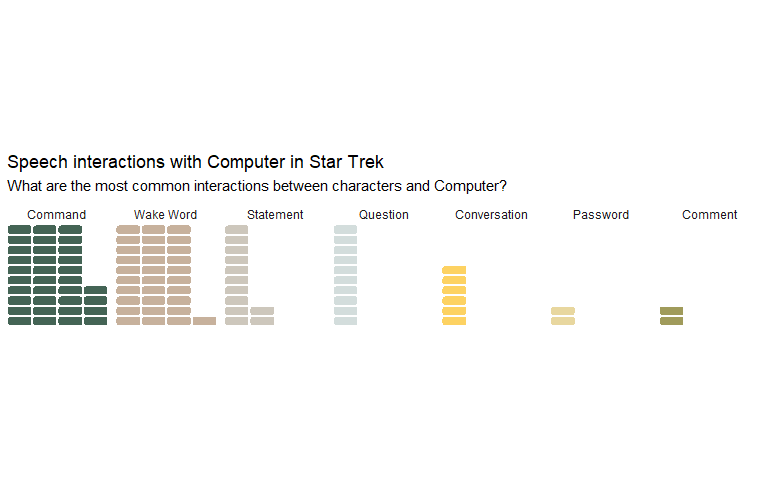
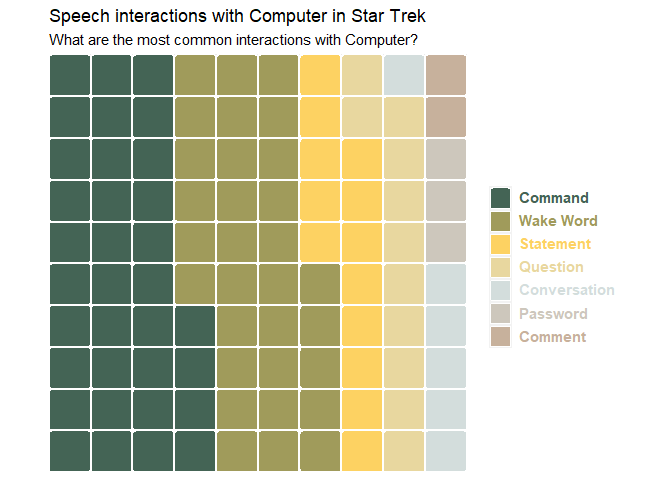
Colour-code legend text

diff --git a/2021/2021_08_17/README.md b/2021/2021_08_17/README.md
@@ -7,6 +7,7 @@ extrafont::loadfonts(device="win")
 library(tidyverse)
 library(waffle)
 library(wesanderson)
+library(ggtext)
 
 raw_df <- readr::read_csv('https://raw.githubusercontent.com/rfordatascience/tidytuesday/master/data/2021/2021-08-17/computer.csv')
 ```
@@ -26,9 +27,20 @@ raw_df %>%
   arrange(desc(percent))
 
 pal <- wes_palette("Chevalier1", 7, type = "continuous")
+```
 
+``` r
+test <-
 waffle_data %>%
-  ggplot(aes(fill = type, values = percent)) +
+  mutate(
+    row_number = row_number(),
+    colour = glue::glue("<span style = \"color:{ pal[row_number] }\">{ type }</span>")
+    )
+```
+
+``` r
+test %>%
+  ggplot(aes(fill = fct_inorder(colour), values = percent)) +
   geom_waffle(n_rows = 10, colour = "white", make_proportional = TRUE, size = 1, radius = unit(2, "pt")) +
   theme_enhance_waffle() +
   scale_x_discrete(expand = c(0, 0)) +
@@ -41,16 +53,17 @@ waffle_data %>%
   scale_fill_manual(values = pal) +
   theme(
     aspect.ratio = 1,
-    legend.position = "right"
-  ) + 
-  guides(fill = guide_legend(title.position="top"))
+    legend.position = "right",
+    legend.title = element_blank(),
+    legend.text = element_textbox(size = 11, face = "bold")
+  )
 ```
 
-![](README_files/figure-gfm/unnamed-chunk-1-1.png)<!-- -->
+![](README_files/figure-gfm/unnamed-chunk-3-1.png)<!-- -->
 
 ``` r
-waffle_data %>%
-  ggplot(aes(fill = type, values = percent)) +
+test %>%
+  ggplot(aes(fill = colour, values = percent)) +
   geom_waffle(n_rows = 10, colour = "white", make_proportional = FALSE, size = 1) +
   theme_minimal(base_family = "Roboto Condensed") +
   scale_x_discrete(expand = c(0, 0)) +
@@ -63,12 +76,13 @@ waffle_data %>%
   scale_fill_manual(values = pal) +
   theme(
     aspect.ratio = 1,
-    legend.position = "none"
+    legend.position = "none",
+    strip.text = element_textbox()
   ) +
   facet_wrap(. ~ fct_reorder(type, -percent), nrow = 1)
 ```
 
-![](README_files/figure-gfm/unnamed-chunk-2-1.png)<!-- -->
+![](README_files/figure-gfm/unnamed-chunk-4-1.png)<!-- -->
 
 ``` r
 # TODO: simplify legend, colour-code the text, remove the squares
